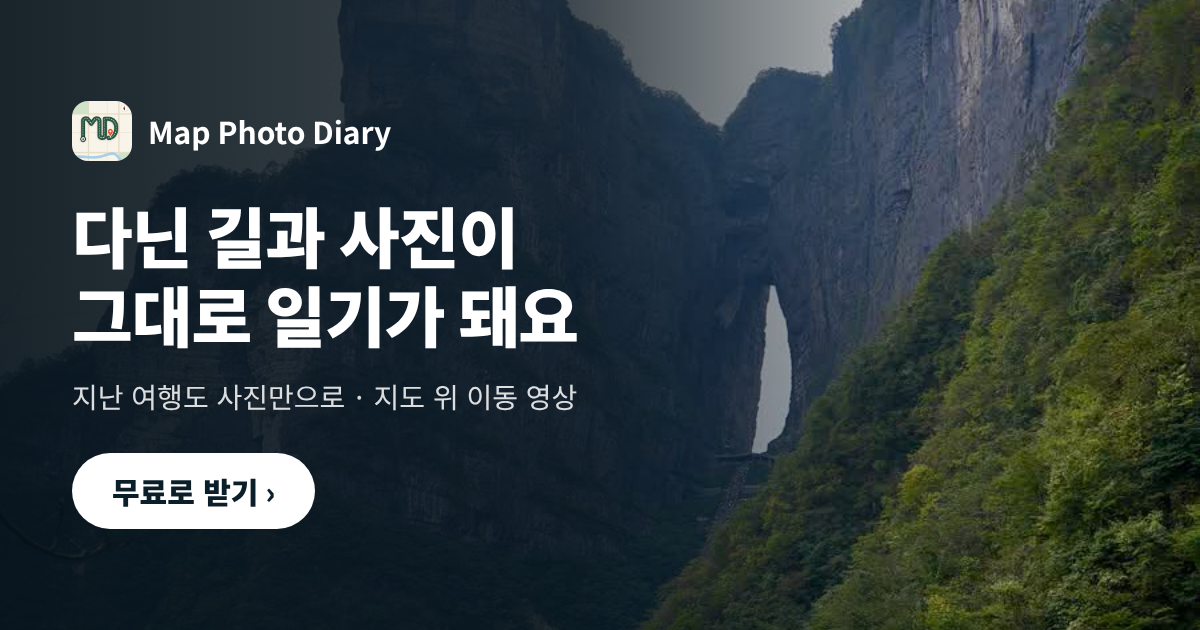
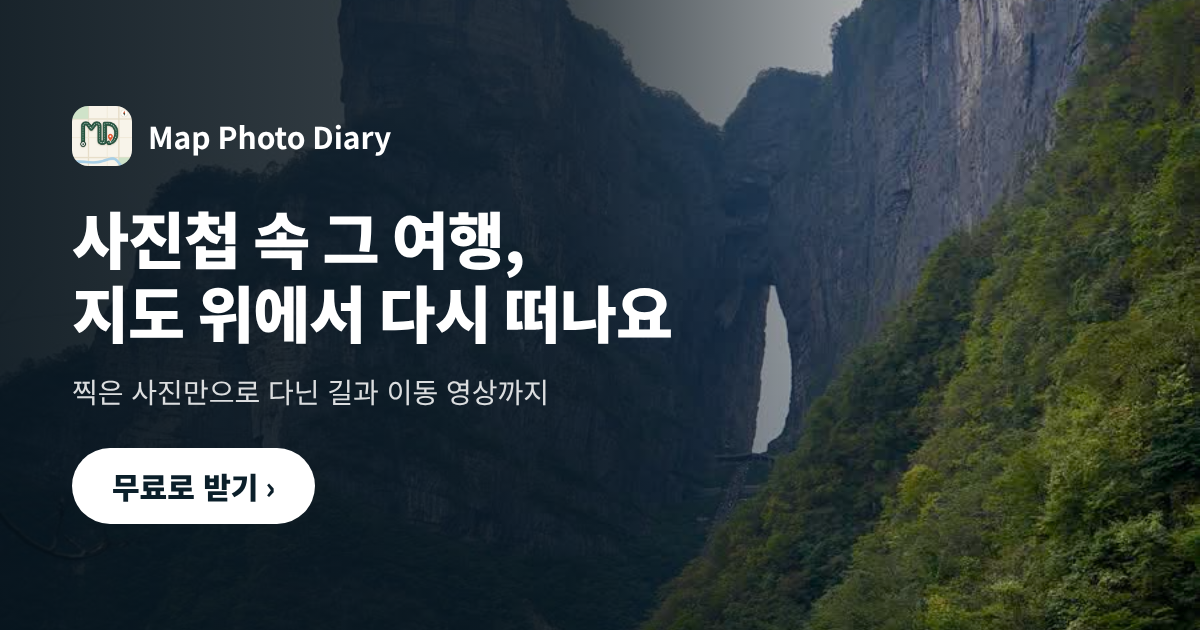
판 -352 앱 받기 쪽 큰 제목: 사진첩 속 그 여행, 지도 위에서 다시 떠나요
Claude-Session: https://claude.ai/code/session_01C65kRDennyE15arPNSgB9o

diff --git a/md.html b/md.html
@@ -1,10 +1,10 @@
 <!doctype html><html lang="ko" data-app="md"><head><meta charset="utf-8"><meta name="viewport" content="width=device-width,initial-scale=1,viewport-fit=cover"><title>Map Photo Diary 받기</title>
 <!-- Map Diary -->
-<meta name="description" content="걷고 여행하면 다닌 길과 사진이 지도 위 일기가 돼요. 지난 여행도 사진만으로, 지도 위 이동 영상까지. 무료">
+<meta name="description" content="사진첩 속 여행을 지도 위에서 다시 떠나요. 찍은 사진만으로 다닌 길과 이동 영상을. 지난 여행도 사진만으로, 지도 위 이동 영상까지. 무료">
 <meta property="og:type" content="website"><meta property="og:site_name" content="Map Photo Diary">
-<meta property="og:title" content="Map Photo Diary — 다닌 길과 사진이 그대로 일기가 돼요">
-<meta property="og:description" content="지난 여행도 사진만으로 · 지도 위 이동 영상 · 링크 하나로 공유. 무료로 받아 보세요">
-<meta property="og:image" content="https://gilbertgo.github.io/mapdiary/og-app.png"><meta property="og:image:width" content="1200"><meta property="og:image:height" content="630">
+<meta property="og:title" content="사진첩 속 그 여행, 지도 위에서 다시 떠나요 — Map Photo Diary">
+<meta property="og:description" content="찍은 사진만으로 다닌 길을 그리고 이동 영상까지. 무료로 받아 보세요">
+<meta property="og:image" content="https://gilbertgo.github.io/mapdiary/og-app.png?v=2"><meta property="og:image:width" content="1200"><meta property="og:image:height" content="630">
 <meta property="og:url" content="https://gilbertgo.github.io/mapdiary/md.html">
 <link rel="icon" href="icon-512.png"><link rel="apple-touch-icon" href="icon-512.png"><meta name="apple-mobile-web-app-capable" content="yes"><meta name="apple-mobile-web-app-title" content="MPD"><meta name="theme-color" content="#0B1F2A">
 <style>
@@ -36,8 +36,8 @@ ol{margin:0;padding-left:20px;line-height:1.75;font-size:15px;color:#374151}
 <body>
 <section class="hero">
   <div class="brand"><img src="icon-192.png" alt="">Map Photo Diary</div>
-  <h1>다닌 길과 사진이<br>그대로 일기가 돼요</h1>
-  <p id="msg">산행·여행·산책을 켜 두기만 하면 지도 위에 길과 사진이 모여요</p>
+  <h1>사진첩 속 그 여행,<br>지도 위에서 다시 떠나요</h1>
+  <p id="msg">찍은 사진만으로 다닌 길을 그리고, 그 길을 따라가는 영상까지 만들어요</p>
   <a class="b" id="dl" href="#">무료로 받기</a>
   <div class="free" id="t">가입 없이 바로 써요 · 안드로이드 앱 · 아이폰은 웹앱</div>
 </section>

diff --git a/CLAUDE.md b/CLAUDE.md
@@ -31,7 +31,7 @@
 - **이동 영상 세 칸 화면**(판 -349, 사용자 '세 화면분리 고정해' · '위치와 사진이 전혀 안 맞아 · MPD는 이게 기본인데'): 끝 장면 전까지 세 칸 그대로(날 바뀜 'n일차'는 가운데 칸 안, 화면 가득 사진·제목 없음). 아래 칸 사진은 시간표가 아니라 **사진 멈춤**(`filmSplitSel`→`filmDirector` `phHolds`→`filmSplitAt`): 사진 위치로 길 위 자리를 다시 잡고(1km 넘게 어긋나면 가장 가까운 길, 3km 넘으면 뺌) 800m 안끼리 묶어 그 자리에서 카메라가 멈춘 동안만 2×2로 넘김 → 움직일 땐 사진 없음. 영상 길이에 맞게 날마다 한 곳 먼저 고름(다 못 보여 줌). 시험 '아래 칸 사진은 늘 지도 머리가…'(1km 안)
 - **영상 첫 사진**(판 -349 `filmAiHero`): ★가 없으면 Claude(`FA_MODEL`)가 길 위 사진 20장(512px)을 보고 고름, `filmAiHero:{기록}`에 기억(지운 사진이면 다시 고름). 세 칸은 처음 장면 동안 아래 칸에 '대표 사진'
 - **안드로이드 웹 첫 화면 '앱 받기'**(판 -350, 사용자 'MPD앱 설치 편하게 하자'): 안드로이드 휴대폰 브라우저(웹·바탕화면 웹앱, 앱 아님 `IS_ANDROID_WEB`)는 맨 아래 카드가 '바탕화면에 추가' 대신 'MPD 앱 받기' → `apkGet`이 바로 MPD.apk를 받고 남은 순서(파일 열기·출처 허용·설치)와 '웹 기록은 로그인으로 넘어가요'를 짧게. ✕는 `apkHide`. 아이폰·컴퓨터는 그대로. 출처 허용 창을 없애는 건 플레이 스토어뿐(신원 확인 기다림, docs/기록.md '플레이')
-- **지인에게 보내는 앱 받기 쪽 md.html**(판 -351, 사용자 '지인에게 설치 권장할건데 MPD 핵심 장점이 안 보여'): 맨 위 사진(img/onb-bg.jpg)+'다닌 길과 사진이 그대로 일기가 돼요'+'무료로 받기', 아래 장점 넷(켜 두면 길·사진이 지도에 / 지난 여행도 사진만으로 / 지도 위 이동 영상 / 링크 하나로 공유). 열자마자 받지 않고 '무료로 받기'를 눌러야 받고 설치 순서가 열림(getapp.js `MD`, run.html은 예전대로 바로 받음). 카톡 미리보기 `og-app.png`(1200×630). 장점 글은 실제로 되는 것만 적을 것
+- **지인에게 보내는 앱 받기 쪽 md.html**(판 -351, 사용자 '지인에게 설치 권장할건데 MPD 핵심 장점이 안 보여'): 맨 위 사진(img/onb-bg.jpg)+'사진첩 속 그 여행, 지도 위에서 다시 떠나요'(판 -352, 사용자 '일기가 돼요 이 문장이 안 끌려')+'무료로 받기', 아래 장점 넷(켜 두면 길·사진이 지도에 / 지난 여행도 사진만으로 / 지도 위 이동 영상 / 링크 하나로 공유). 열자마자 받지 않고 '무료로 받기'를 눌러야 받고 설치 순서가 열림(getapp.js `MD`, run.html은 예전대로 바로 받음). 카톡 미리보기 `og-app.png`(1200×630). 장점 글은 실제로 되는 것만 적을 것
 - 지도 사진 동그라미 `.ph-pin`은 position:absolute(판 -338, relative면 leaflet 마커가 아래로 밀림)
 - **여러 날 여행**(판 -337): 내 MPD 목록에는 여행 한 장만(하루치는 `inAlb`로 숨김), 하루치는 여행 화면 '날마다'(`albumDayList`)에서 엶
 - 큰 덩어리(이름으로 docs/기록.md를 찾을 것): 기록 화면(모드마다 첫 화면·대시보드)·내 MPD(`viewMyOne`)·공유 카드/링크·여행 계획(`viewPlanOne`, 하나투어·블로그 가져오기, 일행 채팅·같이 고치기·권한·AI 묻기)·이동 영상(`viewFilm`)·포토스토리/포토북/그림 앨범/여행 후기·가족 앨범·자동 기록·클라우드 맞추기·백업(🎙 대화 기록·🔒 화면 잠금은 판 -336에 없앰)

diff --git a/docs/기록.md b/docs/기록.md
@@ -1649,3 +1649,6 @@
 - getapp.js: `MD`(mode 빈칸)일 때 제목·글을 덮어쓰지 않고, 저절로 받기 대신 단추로. run.html·golf.html은 그대로
 - 카톡·문자 미리보기: og:title 'Map Photo Diary — 다닌 길과 사진이 그대로 일기가 돼요', og:image `og-app.png`(장가계 사진+제목+'무료로 받기', 만든 방법: HTML을 Playwright로 1200×630 캡처)
 - 시험 '앱 받기 쪽은 장점을 먼저 보여 주고 누를 때 받음'
+
+## 판 -352 앱 받기 쪽 큰 제목 (2026-11-23, 사용자 '일기가되요. 이 문장이 안 끌려')
+- md.html·og-app.png 제목 '다닌 길과 사진이 그대로 일기가 돼요' → '사진첩 속 그 여행, 지도 위에서 다시 떠나요', 설명 '찍은 사진만으로 다닌 길을 그리고, 그 길을 따라가는 영상까지 만들어요'. 까닭: '일기'는 쓰는 수고가 떠오르고 MPD만의 것(사진만으로 길·영상)이 안 보여서. og 그림 주소에 ?v=2(카톡 캐시). 첫 화면(index.html) 빈 화면 글은 그대로
